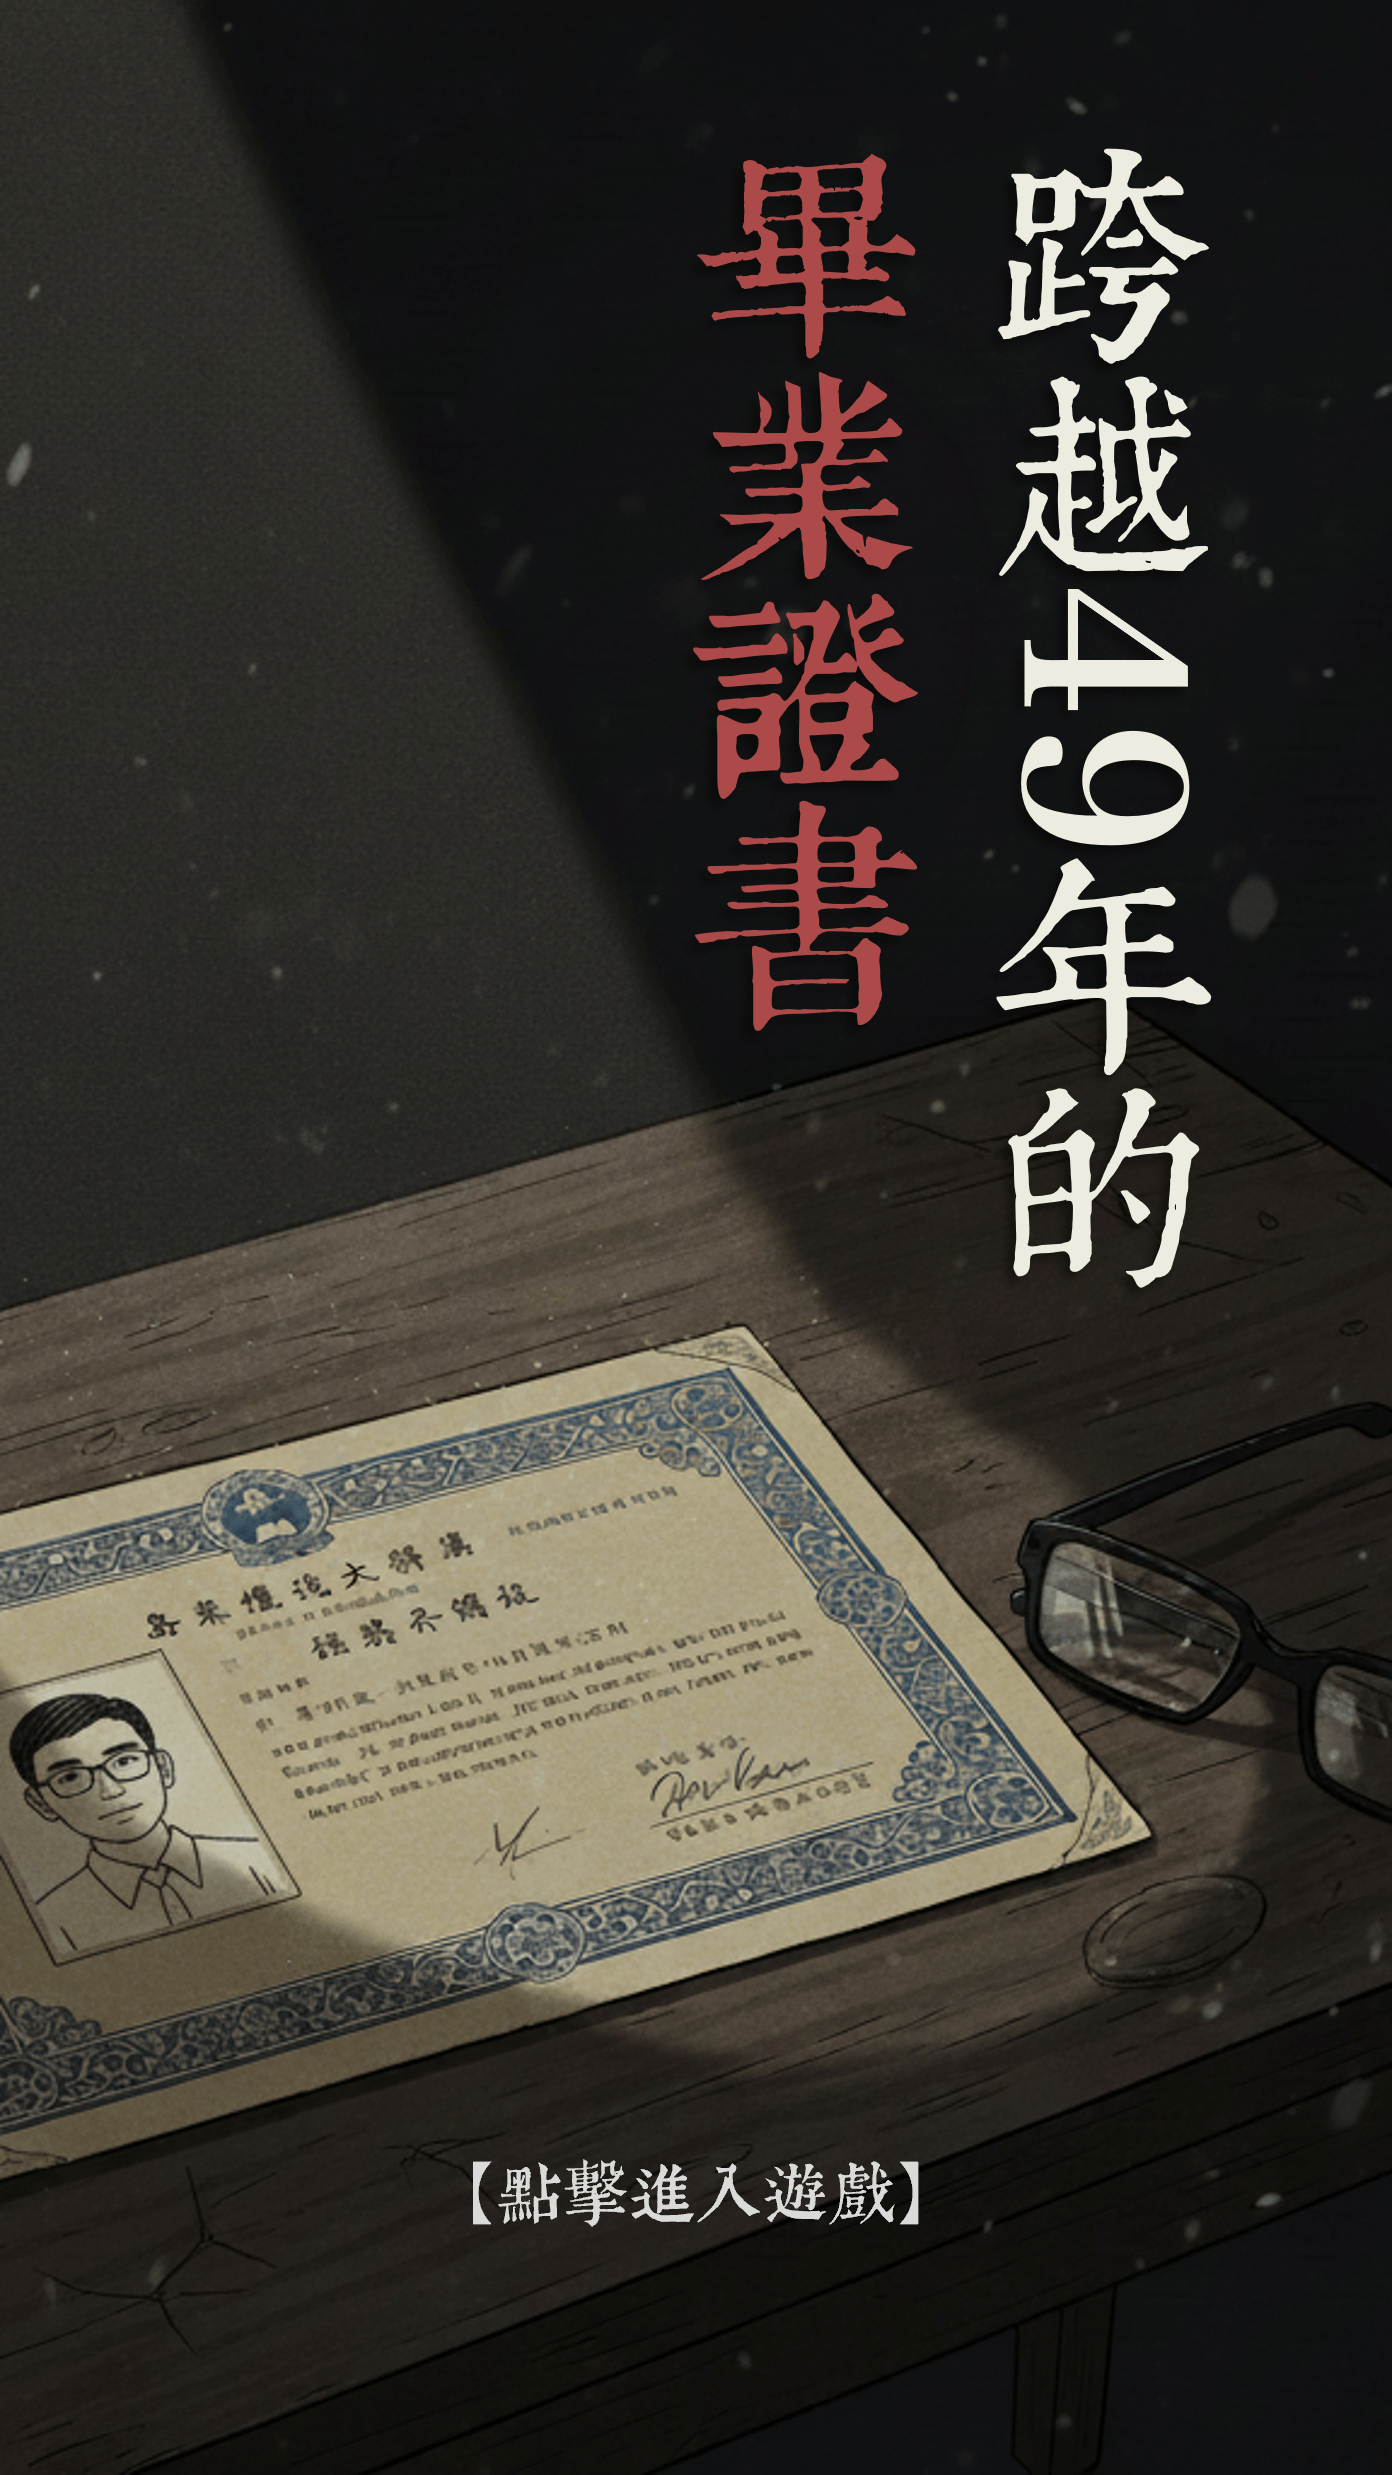
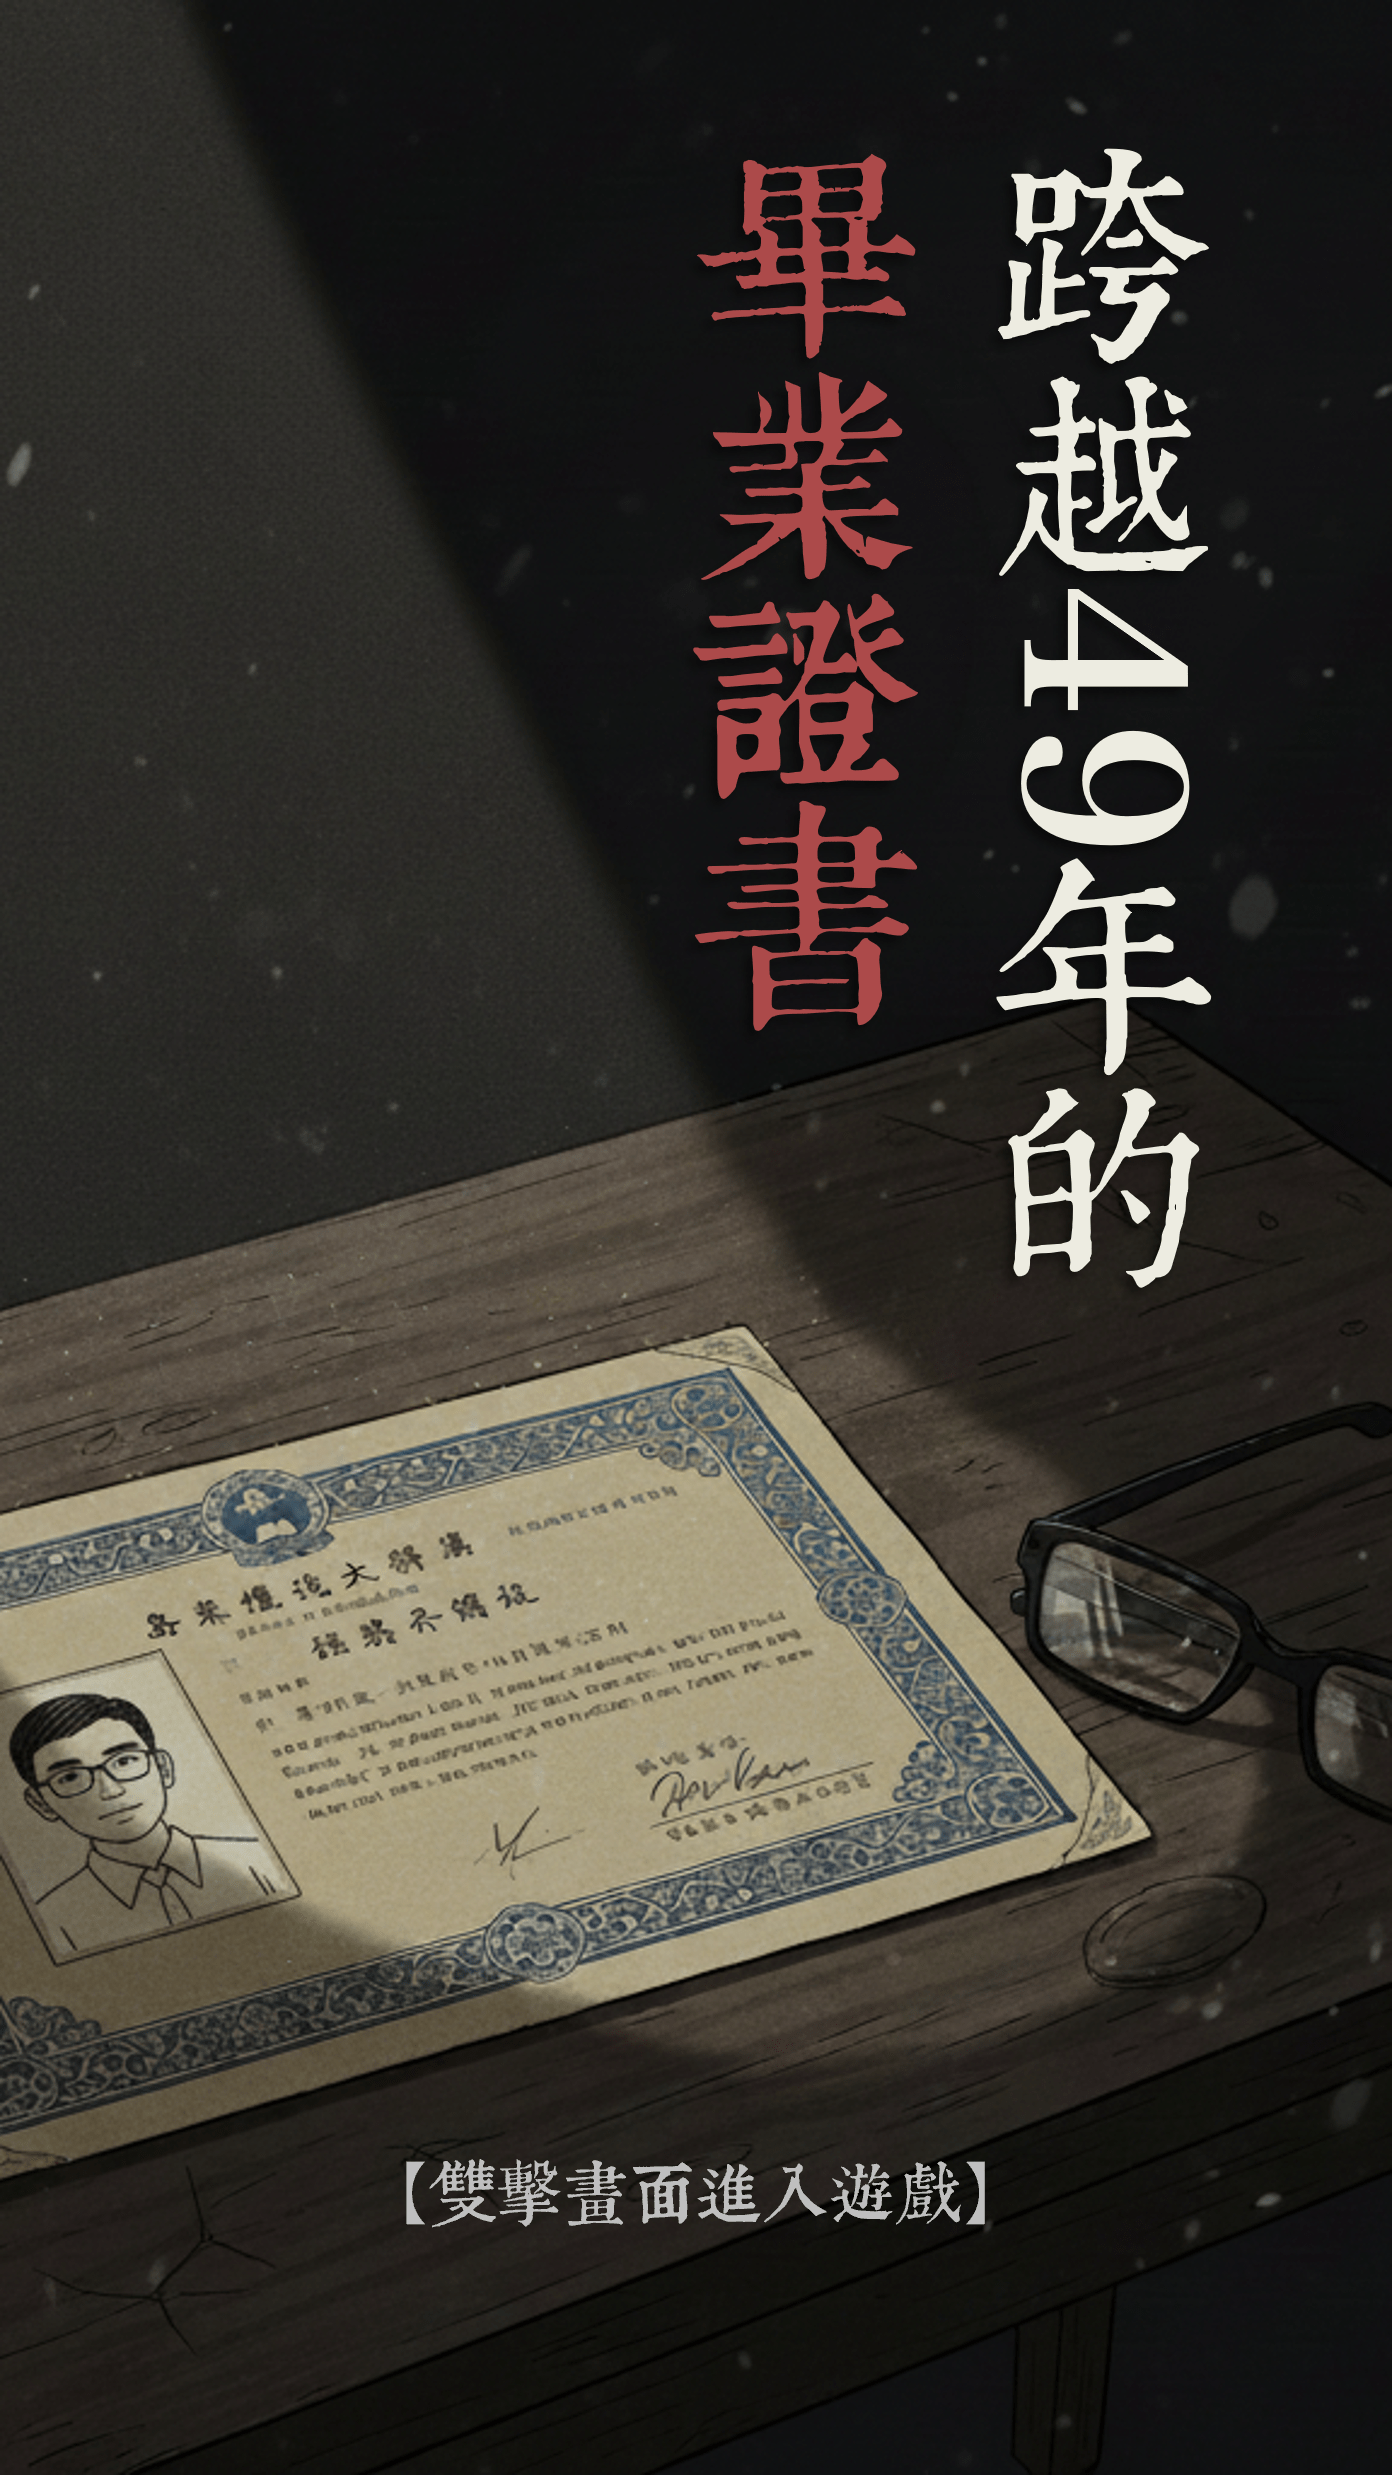
1214 final update

Changed region(s): [[0.278, 0.8711, 0.7105, 0.9022]]

diff --git a/game.js b/game.js
@@ -10,11 +10,11 @@ let unlockedEndings = JSON.parse(localStorage.getItem('fred_endings')) || {
 };
 
 let typewriter = {
-    fullText: "", timer: null, index: 0, speed: 40, isTyping: false
+    fullText: "", timer: null, index: 0, speed: 50, isTyping: false
 };
 
-const SPEED_NORMAL = 40;   
-const SPEED_SYSTEM = 80;   
+const SPEED_NORMAL = 50;   
+const SPEED_SYSTEM = 70;   
 const SPEED_CHAPTER = 150; 
 
 // --- 1. 初始化 ---
@@ -23,15 +23,14 @@ async function initGame() {
         const response = await fetch('data.json');
         if (!response.ok) throw new Error("無法讀取 data.json");
         gameData = await response.json();
-        // 這裡請改回 Chapter_00_Title，方便從頭測試
-        renderScene("Event_16_Growth"); 
+        renderScene("Cover"); 
     } catch (error) {
         console.error(error);
         document.getElementById('dialogue-text').innerText = "讀取失敗";
     }
 }
 
-// --- 2. 渲染場景 (修正：允許空文字) ---
+// --- 2. 渲染場景 (含標題模式) ---
 function renderScene(sceneId) {
     console.log("正在進入場景:", sceneId);
 
@@ -55,18 +54,26 @@ function renderScene(sceneId) {
     updateVisuals(currentScene);
     const gameContainer = document.getElementById('game-container');
     
-    // 純畫面模式 (hide-ui)
-    if (currentScene.hide_ui || currentScene['hide-ui']) { // 相容兩種寫法
+    // 1. 純畫面模式 (hide-ui)
+    if (currentScene.hide_ui || currentScene['hide-ui']) {
         gameContainer.classList.add('hide-ui');
     } else {
         gameContainer.classList.remove('hide-ui');
     }
 
-    // 畫廊模式標籤
+    // 2. 畫廊模式標籤
     if (sceneId === "Gallery_View") {
         gameContainer.classList.add('gallery-active');
     } else {
         gameContainer.classList.remove('gallery-active');
+    }
+
+    // 3. 【新增】標題模式標籤 (Title Mode)
+    // 只要 JSON 裡有 "is_title": true，就啟動這個模式
+    if (currentScene.is_title) {
+        gameContainer.classList.add('title-mode');
+    } else {
+        gameContainer.classList.remove('title-mode');
     }
 
     // E. 樣式與狀態更新
@@ -83,12 +90,10 @@ function renderScene(sceneId) {
         return; 
     }
 
-    // F. 文字處理邏輯 (關鍵修正！)
-    // 只有當 text 真的有內容時，才分割文字
+    // F. 文字處理邏輯
     if (currentScene.text && currentScene.text.trim() !== "") {
         dialogueQueue = currentScene.text.split(/\n\s*\n/);
     } else {
-        // 如果 text 是空的，就讓佇列為空，直接進入 setupInteraction
         dialogueQueue = [];
     }
 
@@ -104,13 +109,13 @@ function renderGalleryContent() {
     dialogueBox.classList.add('style-gallery');
     
     const endingInfo = [
-        { id: 1, title: "玉石俱焚", icon: "🔥" },
+        { id: 1, title: "玉石俱焚", icon: "💥" },
         { id: 2, title: "無根的漂泊", icon: "🌊" },
-        { id: 3, title: "沈默的傷痕", icon: "😶" },
-        { id: 4, title: "真實的力量", icon: "⚖" }
+        { id: 3, title: "沈默的傷痕", icon: "🤐" },
+        { id: 4, title: "真實的力量", icon: "🎤" }
     ];
 
-    let html = `<div style="text-align:center; font-weight:bold; margin-bottom:10px; color:#f0c040;">結局蒐集進度</div>`;
+    let html = `<div style="text-align:center; font-weight:bold; margin-bottom:10px; color:#f0c040;">【結局蒐集進度】</div>`;
     html += `<div class="gallery-grid">`;
 
     endingInfo.forEach(end => {
@@ -219,11 +224,12 @@ function finishTypingImmediately(onComplete) {
     if (onComplete) onComplete();
 }
 
-// --- 6. 選項互動邏輯 (防穿透修正版) ---
+// --- 6. 選項互動邏輯 (支援標題雙擊版) ---
 function setupInteraction(choices) {
     const dialogueBox = document.getElementById('dialogue-box');
     const nextIndicator = document.querySelector('.next-indicator');
     const overlay = document.getElementById('choices-overlay');
+    const gameContainer = document.getElementById('game-container');
 
     // 重置介面
     overlay.innerHTML = '';
@@ -233,12 +239,27 @@ function setupInteraction(choices) {
     // 先移除所有點擊，避免誤觸
     dialogueBox.classList.remove('clickable');
     dialogueBox.onclick = null;
+    dialogueBox.ondblclick = null; // 清除雙擊事件
 
-    const isHiddenUI = document.getElementById('game-container').classList.contains('hide-ui');
+    const isHiddenUI = gameContainer.classList.contains('hide-ui');
     const isGallery = dialogueBox.classList.contains('style-gallery');
+    const isTitle = gameContainer.classList.contains('title-mode');
+
+    // --- 優先級 1: 標題模式 (Title Mode) ---
+    // 需求：不顯示按鈕，雙擊螢幕任意處開始
+    if (isTitle) {
+        // 因為 CSS 已經把 dialogueBox 變成全螢幕透明層了，直接綁定在它上面
+        dialogueBox.classList.add('clickable');
+        
+        dialogueBox.ondblclick = () => {
+            if (choices && choices.length > 0) {
+                executeChoice(choices[0]);
+            }
+        };
+        return; // 設定完成，結束函式
+    }
     
-    // --- 優先級 1: 純畫面模式 (Hide UI) ---
-    // 這種模式下，我們加入 200ms 的緩衝，防止上一頁的點擊直接觸發這頁
+    // --- 優先級 2: 純畫面模式 (Hide UI) ---
     if (isHiddenUI) {
         setTimeout(() => {
             dialogueBox.classList.add('clickable');
@@ -247,7 +268,7 @@ function setupInteraction(choices) {
                     executeChoice(choices[0]);
                 }
             };
-        }, 600); // 延遲 0.2 秒才啟用點擊
+        }, 200); 
         return; 
     }
 
@@ -284,20 +305,19 @@ function setupInteraction(choices) {
         overlay.classList.add('active');
     };
 
-    // --- 優先級 2: 畫廊模式 ---
+    // --- 優先級 3: 畫廊模式 ---
     if (isGallery) {
         showButtons();
         return;
     }
 
-    // --- 優先級 3: 一般劇情模式 ---
+    // --- 優先級 4: 一般劇情模式 ---
     const isSingleEllipsis = (choices && choices.length === 1 && choices[0].text === "...");
 
     if (!dialogueBox.classList.contains('style-chapter')) {
         nextIndicator.style.display = 'block';
     }
     
-    // 為了保險起見，一般模式也可以加極短的延遲 (50ms)，或直接執行
     setTimeout(() => {
         dialogueBox.classList.add('clickable');
         dialogueBox.onclick = () => {
@@ -311,7 +331,7 @@ function setupInteraction(choices) {
                  console.log("無選項 (End)");
             }
         };
-    }, 50); // 微小延遲確保穩定
+    }, 50);
 }
 
 function checkCondition(conditionStr) {
@@ -339,13 +359,25 @@ function hideToast() {
 }
 
 function executeChoice(choice) {
+    // 1. 處理數值變化
     if (choice.attribute_changes) {
         attributes.idealism += (choice.attribute_changes.idealism || 0);
         attributes.alienation += (choice.attribute_changes.alienation || 0);
     }
-    if (choice.next_scene_id) renderScene(choice.next_scene_id);
-}
 
+    // 2. 檢查 next_scene_id 是否存在
+    if (choice.next_scene_id) {
+        // 【新增功能】檢查是否為外部連結 (http 開頭)
+        if (choice.next_scene_id.startsWith('http')) {
+            // 使用 window.open 開啟新分頁，避免玩家跳出遊戲
+            window.open(choice.next_scene_id, '_blank');
+        } 
+        // 否則，視為內部場景 ID，進行遊戲跳轉
+        else {
+            renderScene(choice.next_scene_id);
+        }
+    }
+}
 function updateVisuals(scene) {
     const bgImg = document.getElementById('bg-img');
     const charImg = document.getElementById('char-img');

diff --git a/style.css b/style.css
@@ -251,13 +251,44 @@ body {
 .typing-cursor::after { content: '▋'; color: #fff; animation: blink 1s infinite; margin-left: 5px; }
 @keyframes blink { 0%, 100% { opacity: 1; } 50% { opacity: 0; } }
 
-#dialogue-box.style-gallery.clickable:active {
-    transform: translate(-50%, -50%) !important;
-    /* 如果想要有點擊感，可以只縮放，不位移 */
-    transform: translate(-50%, -50%) scale(0.99) !important;
+/* --- 標題畫面模式 (Title Mode) --- */
+
+/* 1. 隱藏數值欄 */
+.title-mode #status-bar {
+    opacity: 0 !important;
+    pointer-events: none;
 }
 
-/* 確保畫廊模式下的滑鼠游標是正常的 (因為我們不希望玩家點盒子本身) */
-#dialogue-box.style-gallery {
-    cursor: default; 
+/* 2. 讓隱形對話框鋪滿全螢幕，變成「雙擊感應區」 */
+.title-mode #dialogue-box {
+    /* 強制隱形但存在 */
+    opacity: 0 !important;
+    background: transparent !important;
+    box-shadow: none !important;
+    border: none !important;
+    
+    /* 鋪滿全螢幕 */
+    width: 100% !important;
+    height: 100% !important;
+    top: 0 !important;
+    left: 0 !important;
+    transform: none !important;
+    max-width: none !important;
+    max-height: none !important;
+    
+    /* 關鍵：允許接收滑鼠事件 */
+    pointer-events: auto !important;
+    
+    /* 滑鼠游標變成手指，暗示可點擊 */
+    cursor: pointer; 
+}
+
+/* 3. 隱藏按鈕層 (雙重保險，確保看不到任何按鈕) */
+.title-mode #choices-overlay {
+    display: none !important;
+}
+
+/* (可選) 防止手機雙擊時觸發縮放，提升體驗 */
+#game-container {
+    touch-action: manipulation;
 }

diff --git a/index.html b/index.html
@@ -4,7 +4,7 @@
     <meta charset="UTF-8">
     <meta name="viewport" content="width=device-width, initial-scale=1.0">
     <title>跨越𝟒𝟗年的畢業證書</title>
-    <link rel="icon" href="images/game_icon_2.png">
+    <link rel="icon" href="images/game_icon.png">
     <link rel="preconnect" href="https://fonts.googleapis.com">
     <link rel="preconnect" href="https://fonts.gstatic.com" crossorigin>
     <link href="https://fonts.googleapis.com/css2?family=Courier+Prime:ital,wght@0,400;0,700;1,400&family=Noto+Serif+TC:wght@300;500;700&display=swap" rel="stylesheet">
